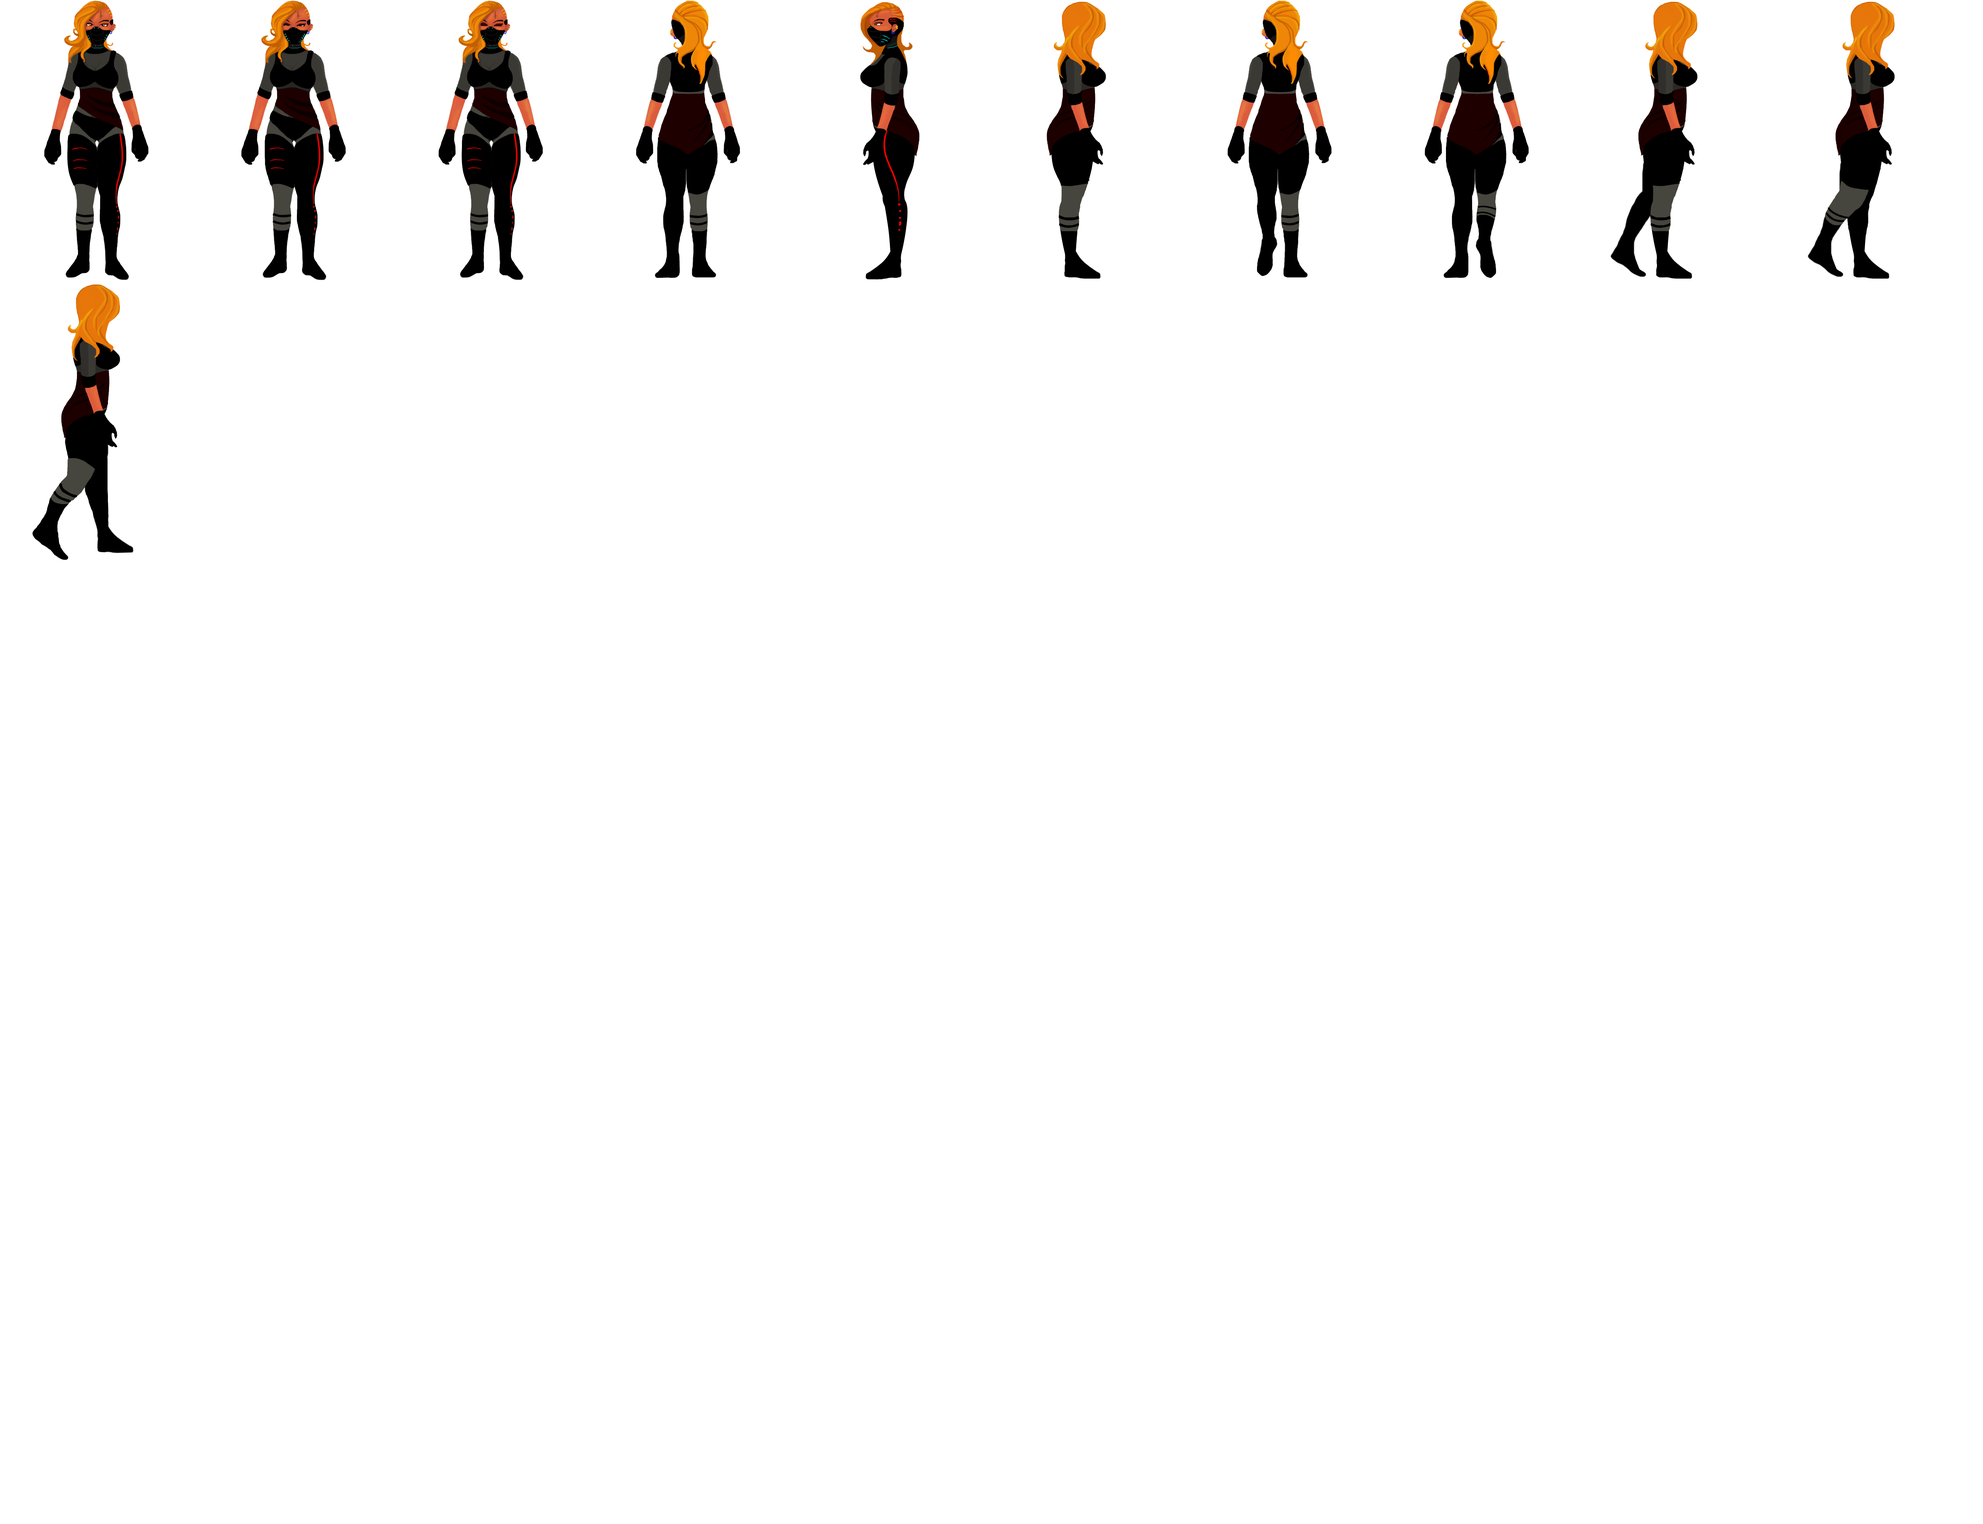
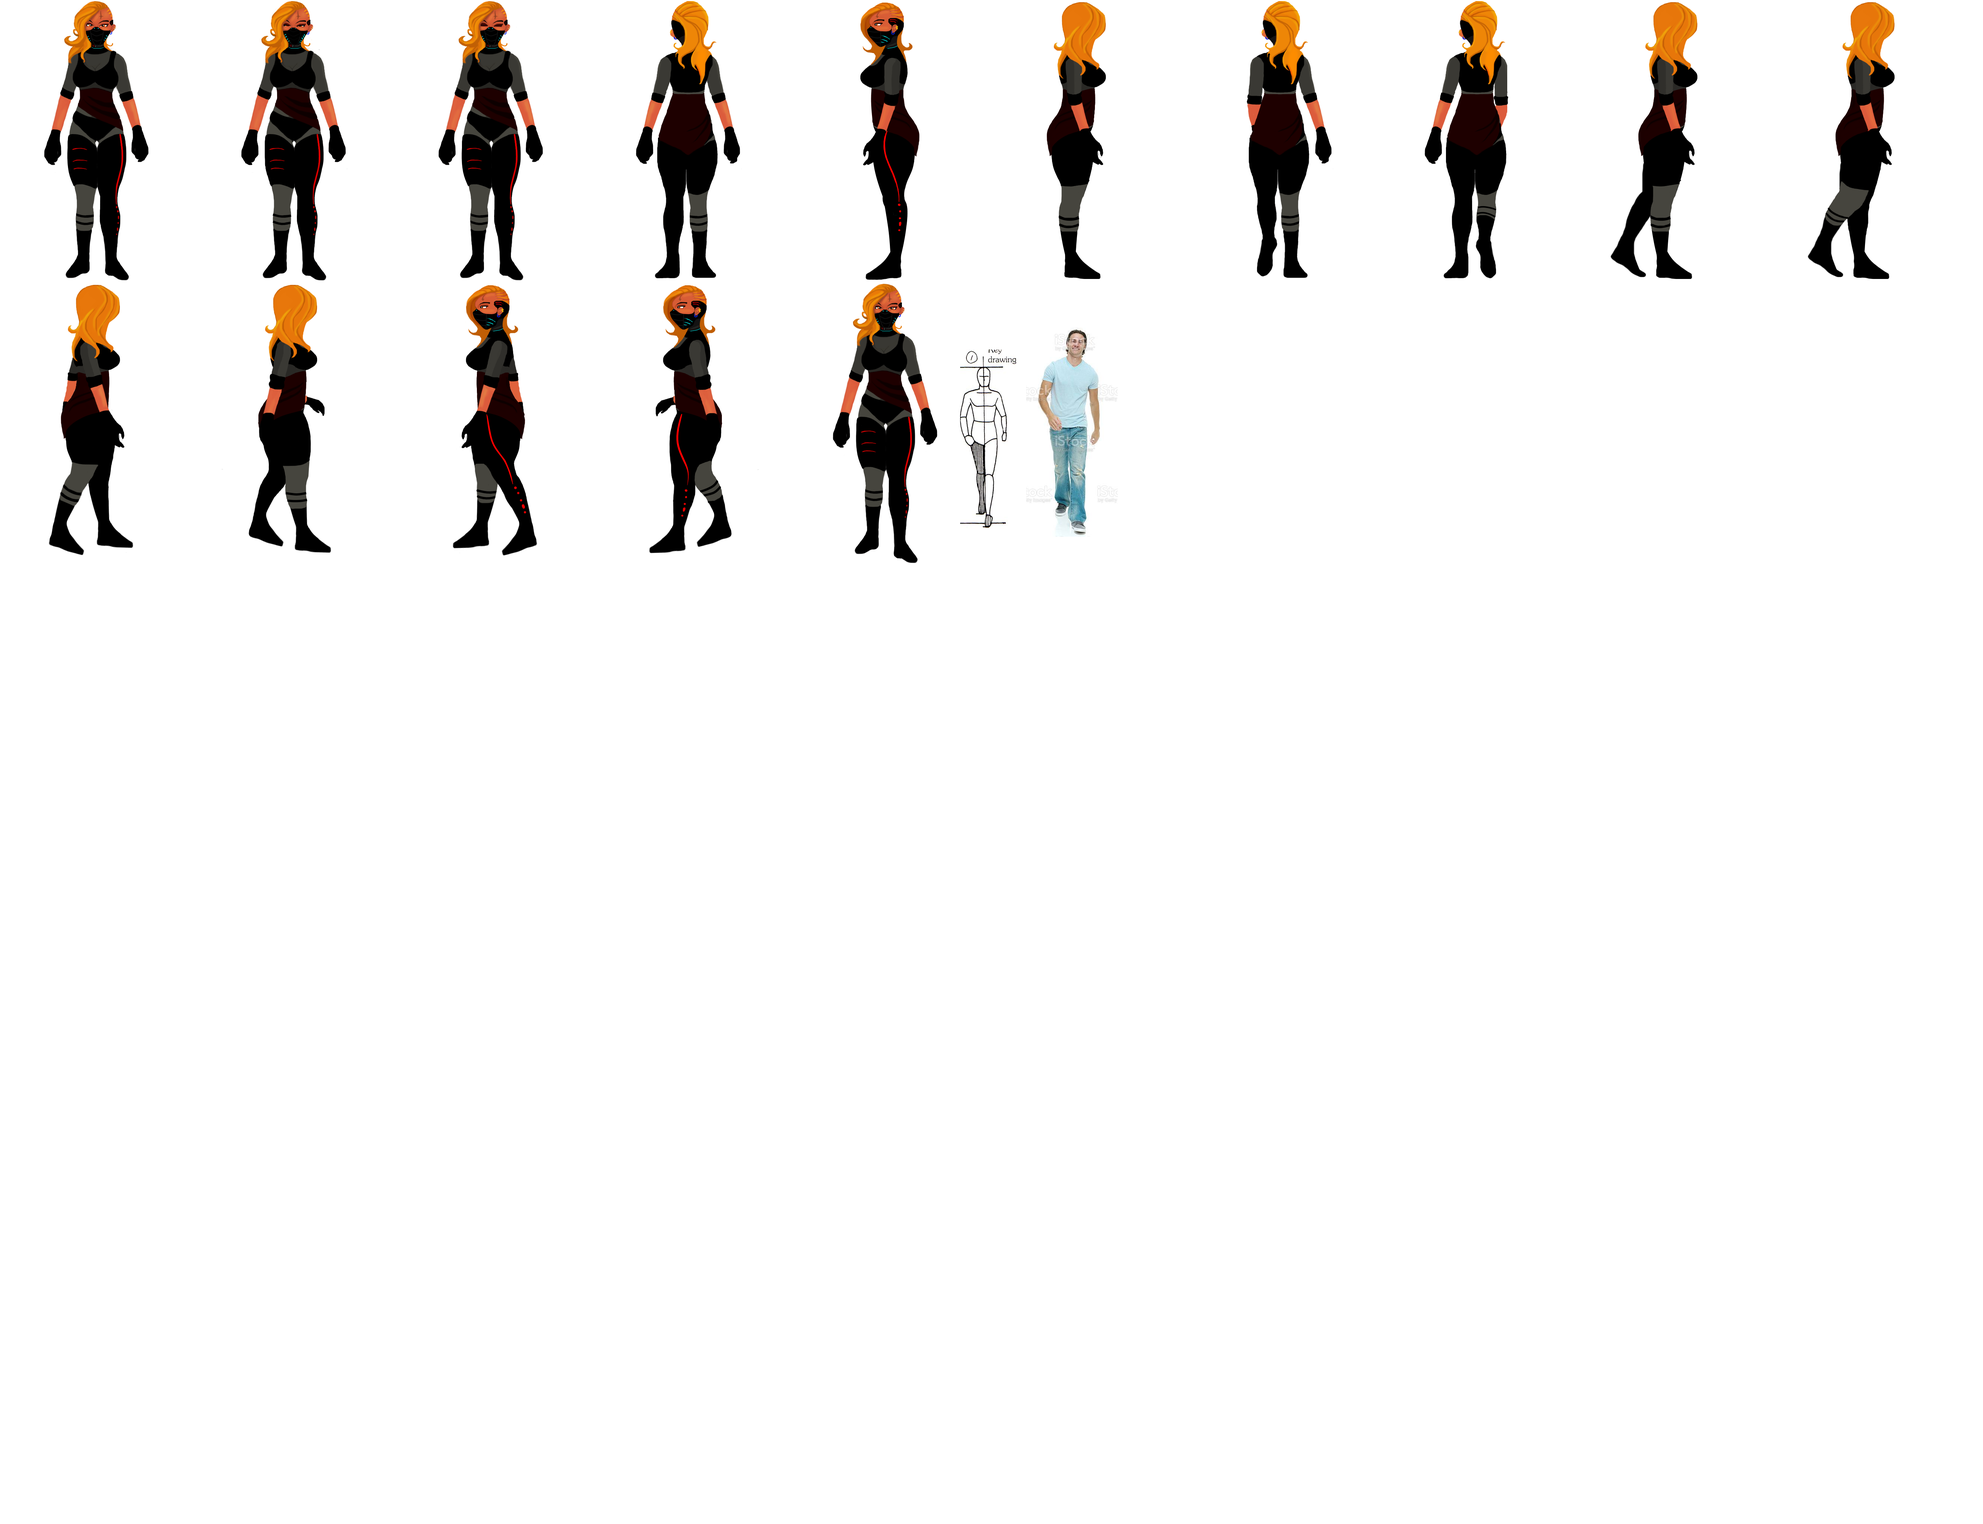
contact

diff --git a/src/Jeu.svelte b/src/Jeu.svelte
@@ -7,7 +7,7 @@
     import Options from "./Options.svelte";
     import Contact from "./Contact.svelte";
     import { getContext, setContext } from "svelte";
-    import { focuschat, volume } from "./Class.js";
+    import { focuschat, volume, pause } from "./Class.js";
 
     //----------------------------------------------------------------------------------- Variables
 
@@ -276,12 +276,12 @@
             // CREATION JOUEUR
             // HITBOX
             // this.background.setPipeline("Light2D");
-            this.lights.enable();
+            /* this.lights.enable(); */
             // this.lights.setAmbientColor(55, 55, 255);
-            var spotlight = this.lights.addLight(300, 300, 1600).setIntensity(3);
+            /* var spotlight = this.lights.addLight(300, 300, 1600).setIntensity(3);
             var spotlight2 = this.lights.addLight(1400, 200, 800).setIntensity(3);
             var spotlight3 = this.lights.addLight(690, 200, 800).setIntensity(3);
-            var spotlight4 = this.lights.addLight(950, 300, 800).setIntensity(2);
+            var spotlight4 = this.lights.addLight(950, 300, 800).setIntensity(2); */
             // // CREATION PARTICULE
             this.input.on("pointermove", function (pointer) {});
             toucheclavier = this.input.keyboard.createCursorKeys();
@@ -351,13 +351,13 @@
             this.background.displayHeight = this.sys.canvas.height;
             // CREATION JOUEUR
             // HITBOX
-            this.background.setPipeline("Light2D");
+            /*    this.background.setPipeline("Light2D");
             this.lights.enable();
             this.lights.setAmbientColor(0x808080);
             var spotlight = this.lights.addLight(300, 200, 1600).setIntensity(3);
             var spotlight2 = this.lights.addLight(1400, 200, 800).setIntensity(3);
             var spotlight3 = this.lights.addLight(690, 200, 800).setIntensity(3);
-            var spotlight4 = this.lights.addLight(950, 300, 800).setIntensity(2);
+            var spotlight4 = this.lights.addLight(950, 300, 800).setIntensity(2); */
             // // CREATION PARTICULE
             this.input.on("pointermove", function (pointer) {});
             toucheclavier = this.input.keyboard.createCursorKeys();
@@ -446,7 +446,10 @@
                 frameHeight: 388
             });
             bureau = this;
-            enjeu = true;
+            setTimeout(() => {
+                enjeu = true;
+            }, 3000);
+
             connecte = false;
             cursors = this.input.keyboard.createCursorKeys();
             // JOUEUR
@@ -467,6 +470,7 @@
         }
         //------------------------------------------------------ CREATE
         create() {
+            let scenebureau = this;
             //------------------------------------------------------
             spriteildaa = this.physics.add.sprite(windowwidth - 900, windowheight - 380, "ildaa2");
             spriteildaa.setSize(228, 757, true);
@@ -494,13 +498,12 @@
             this.background.displayHeight = this.sys.canvas.height;
             // CREATION JOUEUR
             // HITBOX
-            // this.background.setPipeline("Light2D");
-            this.lights.enable();
-            // this.lights.setAmbientColor(55, 55, 255);
-            var spotlight = this.lights.addLight(300, 300, 1600).setIntensity(3);
-            var spotlight2 = this.lights.addLight(1400, 200, 800).setIntensity(3);
-            var spotlight3 = this.lights.addLight(690, 200, 800).setIntensity(3);
-            var spotlight4 = this.lights.addLight(950, 300, 800).setIntensity(2);
+            /* this.background.setPipeline("Light2D"); */
+            /*  this.lights.enable(); */
+            /* this.lights.setAmbientColor(55, 55, 255); */
+            // var spotlight = this.lights.addLight(300, 300, 1600).setIntensity(3);
+            /*  var light = this.lights.addLight(500, 0, 1600).setIntensity(10); */
+
             // // CREATION PARTICULE
             this.input.on("pointermove", function (pointer) {});
             toucheclavier = this.input.keyboard.createCursorKeys();
@@ -526,39 +529,41 @@
                     camera.shake(1000, 0.025);
                 }
             );
+            //ANIMATIONS --------------------------------------------------------------
 
             this.anims.create({
                 key: "dos",
                 frames: this.anims.generateFrameNumbers("ildaa2", {
                     frames: [3, 6, 3, 7]
                 }),
-                frameRate: 3,
+                frameRate: 4,
                 repeat: -1
             });
             this.anims.create({
                 key: "gauche",
                 frames: this.anims.generateFrameNumbers("ildaa2", {
-                    frames: [4, 4, 4, 4]
+                    frames: [4, 12, 4, 13]
                 }),
-                frameRate: 3,
+                frameRate: 4,
                 repeat: -1
             });
             this.anims.create({
                 key: "droite",
                 frames: this.anims.generateFrameNumbers("ildaa2", {
-                    frames: [5, 10, 5, 10]
+                    frames: [5, 10, 5, 11]
                 }),
-                frameRate: 3,
+                frameRate: 4,
                 repeat: -1
             });
             this.anims.create({
                 key: "bas",
                 frames: this.anims.generateFrameNumbers("ildaa2", {
-                    frames: [0, 0, 0, 0]
+                    frames: [0, 0, 0, 14]
                 }),
-                frameRate: 3,
+                frameRate: 4,
                 repeat: -1
             });
+            // TEXT EN JEU ---------------------------------------------------------------
             // var style = {
             //     font: "10px scifi",
             //     fill: "chartreuse",
@@ -567,80 +572,83 @@
             //     align: "center"
             // };
             // pseudoingame = this.add.text(spriteildaa.x, spriteildaa.y, joueur.pseudo, style);
-            console.log(cursors);
-            let scenebureau = this;
+
             //TOUCHE ESPACE
             cursors.space.on("down", function (event) {
-                if (joueur.vitesse != 0 && joueur.vitesse === 1) {
-                    if (effetarme[0].paused) {
-                        effetarme[0].volume = 0.1;
-                        effetarme[0].play();
-                    } else {
-                        effetarme[1].volume = 0.1;
-                        effetarme[1].play();
-                    }
+                if ($pause != true) {
+                    if (joueur.vitesse != 0 && joueur.vitesse === 1) {
+                        if (effetarme[0].paused) {
+                            effetarme[0].volume = 0.1;
+                            effetarme[0].play();
+                        } else {
+                            effetarme[1].volume = 0.1;
+                            effetarme[1].play();
+                        }
 
-                    if (projectile === undefined) {
-                        projectile = scenebureau.physics.add.sprite(
-                            spriteildaa.x,
-                            spriteildaa.y - 90,
-                            "projectile"
-                        );
-                        projectile.setSize(409, 388, true);
-                        projectile.setDepth(2);
-                        projectile.setScale(0.25, 0.25);
-                        projectile.setVelocity(2000, 0);
+                        if (projectile === undefined) {
+                            projectile = scenebureau.physics.add.sprite(
+                                spriteildaa.x,
+                                spriteildaa.y - 90,
+                                "projectile"
+                            );
+                            projectile.setSize(409, 388, true);
+                            projectile.setDepth(2);
+                            projectile.setScale(0.25, 0.25);
+                            projectile.setVelocity(2000, 0);
 
-                        scenebureau.physics.add.collider(
-                            projectile,
-                            [spriteennemi, spriteennemi2],
-                            function colision(persosprite, collisionsprite) {
+                            scenebureau.physics.add.collider(
+                                projectile,
+                                [spriteennemi, spriteennemi2],
+                                function colision(persosprite, collisionsprite) {
+                                    projectile.destroy();
+                                    if (effetarme[2].paused) {
+                                        effetarme[2].volume = 0.1;
+                                        effetarme[2].play();
+                                    } else {
+                                        effetarme[3].volume = 0.1;
+                                        effetarme[3].play();
+                                    }
+
+                                    collisionsprite.destroy();
+                                }
+                            );
+                            setTimeout(() => {
                                 projectile.destroy();
-                                if (effetarme[2].paused) {
-                                    effetarme[2].volume = 0.1;
-                                    effetarme[2].play();
-                                } else {
-                                    effetarme[3].volume = 0.1;
-                                    effetarme[3].play();
+                                projectile = undefined;
+                            }, 5000);
+                        } else {
+                            let projectile2 = scenebureau.physics.add.sprite(
+                                spriteildaa.x,
+                                spriteildaa.y - 90,
+                                "projectile"
+                            );
+                            scenebureau.physics.add.collider(
+                                projectile2,
+                                [spriteennemi, spriteennemi2],
+                                function colision(persosprite, collisionsprite) {
+                                    projectile2.destroy();
+                                    if (effetarme[2].paused) {
+                                        effetarme[2].volume = 0.1;
+                                        effetarme[2].play();
+                                    } else {
+                                        effetarme[3].volume = 0.1;
+                                        effetarme[3].play();
+                                    }
+                                    collisionsprite.destroy();
                                 }
+                            );
+                            projectile2.setSize(409, 388, true);
+                            projectile2.setDepth(2);
+                            projectile2.setScale(0.25, 0.25);
+                            projectile2.setVelocity(2000, 0);
 
-                                collisionsprite.destroy();
-                            }
-                        );
-                        setTimeout(() => {
-                            projectile.destroy();
-                            projectile = undefined;
-                        }, 5000);
-                    } else {
-                        let projectile2 = scenebureau.physics.add.sprite(
-                            spriteildaa.x,
-                            spriteildaa.y - 90,
-                            "projectile"
-                        );
-                        scenebureau.physics.add.collider(
-                            projectile2,
-                            [spriteennemi, spriteennemi2],
-                            function colision(persosprite, collisionsprite) {
+                            setTimeout(() => {
                                 projectile2.destroy();
-                                if (effetarme[2].paused) {
-                                    effetarme[2].volume = 0.1;
-                                    effetarme[2].play();
-                                } else {
-                                    effetarme[3].volume = 0.1;
-                                    effetarme[3].play();
-                                }
-                                collisionsprite.destroy();
-                            }
-                        );
-                        projectile2.setSize(409, 388, true);
-                        projectile2.setDepth(2);
-                        projectile2.setScale(0.25, 0.25);
-                        projectile2.setVelocity(2000, 0);
-
-                        setTimeout(() => {
-                            projectile2.destroy();
-                            projectile2 = undefined;
-                        }, 5000);
+                                projectile2 = undefined;
+                            }, 5000);
+                        }
+                    } else {
+                        return;
                     }
                 }
 
@@ -649,31 +657,48 @@
 
             // TOUCHE HAUT
             cursors.up.on("down", function (event) {
-                if (joueur.vitesse != 0 && joueur.vitesse === 1) {
-                    spriteildaa.play("dos");
-                    //  perso.play("walk");
-                    spriteildaa.setVelocity(0, -300);
+                /* scenebureau.scene.switch("Menuprincipal"); */
+                if ($pause != true) {
+                    if (joueur.vitesse != 0 && joueur.vitesse === 1) {
+                        spriteildaa.play("dos");
+                        //  perso.play("walk");
+                        spriteildaa.setVelocity(0, -230);
+                    }
+                } else {
+                    return;
                 }
             });
             // TOUCHE BAS
             cursors.down.on("down", function (event) {
-                if (joueur.vitesse != 0 && joueur.vitesse === 1) {
-                    spriteildaa.setVelocity(0, 300);
+                if ($pause != true) {
+                    if (joueur.vitesse != 0 && joueur.vitesse === 1) {
+                        spriteildaa.setVelocity(0, 230);
+                    }
+                    spriteildaa.play("bas");
+                } else {
+                    return;
                 }
-                spriteildaa.play("bas");
             });
             // TOUCHE GAUCHE
             cursors.left.on("down", function (event) {
-                if (joueur.vitesse != 0 && joueur.vitesse === 1) {
-                    spriteildaa.play("gauche");
-                    spriteildaa.setVelocity(-300, 0);
+                if ($pause != true) {
+                    if (joueur.vitesse != 0 && joueur.vitesse === 1) {
+                        spriteildaa.play("gauche");
+                        spriteildaa.setVelocity(-230, 0);
+                    }
+                } else {
+                    return;
                 }
             });
             //TOUCHE DROITE
             cursors.right.on("down", function (event) {
-                if (joueur.vitesse != 0 && joueur.vitesse === 1) {
-                    spriteildaa.play("droite");
-                    spriteildaa.setVelocity(300, 0);
+                if ($pause != true) {
+                    if (joueur.vitesse != 0 && joueur.vitesse === 1) {
+                        spriteildaa.play("droite");
+                        spriteildaa.setVelocity(230, 0);
+                    }
+                } else {
+                    return;
                 }
             });
         }
@@ -839,7 +864,8 @@
         id="storymode"
         on:click={(event) => {
             acceuil.scene.start("Bureau", "Menuprincipal");
-            camera.fadeOut(3000, 1);
+
+            /* camera.fadeOut(1000, 1); */
             effet[0].pause();
             clearInterval(fondacceuil);
         }}>Mode Histoire</button

diff --git a/src/Class.js b/src/Class.js
@@ -111,7 +111,7 @@ export class Ennemi {
 export let chatouvert = true
 export let focuschat = writable()
 export let volume = writable(1)
-
+export let pause = writable(false)
 //TODO ----------------------------------------------- Scenes -------------------------
 export class Etats {
     constructor() {
